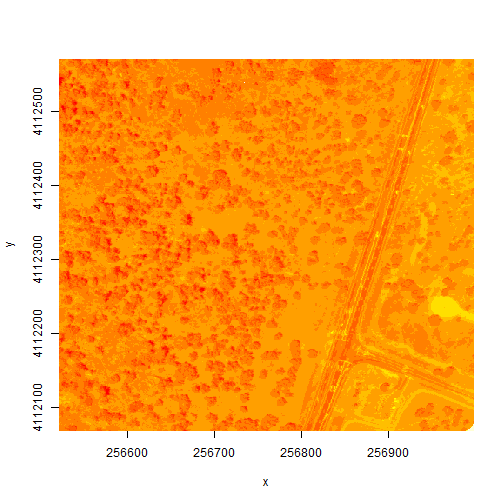
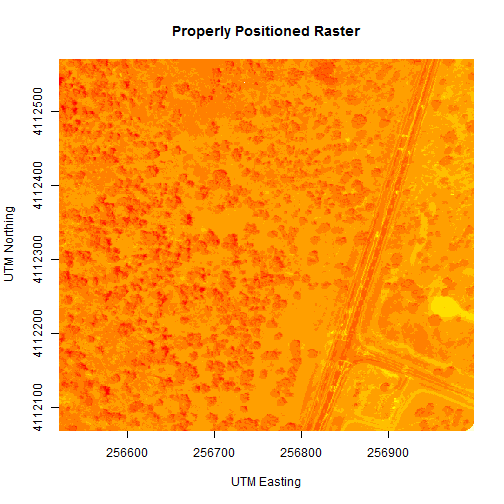
one last set of fixes

Changed region(s): [[0.3274, 0.0298, 0.7143, 0.0893], [0.4464, 0.9226, 0.5952, 0.9821], [0.0, 0.3869, 0.0298, 0.5655]]

diff --git a/_posts/HYPERSPECTRAL/2015-06-08-Work-With-Hyperspectral-Data-In-R.md b/_posts/HYPERSPECTRAL/2015-06-08-Work-With-Hyperspectral-Data-In-R.md
@@ -107,24 +107,6 @@ version 2.10 of `rhdf5` installed. Use: `packageVersion("rhdf5")` to check the
 package version. If you need to update `rhdf5`, use the following code:
 
 
-    #use the code below to install the rhdf5 library if it's not already installed.
-    #source("http://bioconductor.org/biocLite.R")
-    #biocLite("rhdf5")
-
-<i class="fa fa-star"></i> **Data Tip:** To update all packages installed in `R`, use `update.packages()`.
-{: .notice}
-
-##1. Read HDF5 data into R
-We will use the `raster` and `rhdf5` packages to read in the HDF5 file that 
-contains hyperspectral data for the <a href="http://neoninc.org/science-design/field-sites/san-joaquin" target="_blank">NEON San Joaquin field site</a>. Let's start by calling 
-the needed libraries and reading in our NEON HDF5 file.  
-
-
-    #r Load `raster` and `rhdf5` packages and read NIS data into R
-    library(raster)
-    library(rhdf5)
-    library(rgdal)
-
     ## rgdal: version: 0.9-3, (SVN revision 530)
     ##  Geospatial Data Abstraction Library extensions to R successfully loaded
     ##  Loaded GDAL runtime: GDAL 1.11.2, released 2015/02/10
@@ -133,6 +115,15 @@ the needed libraries and reading in our NEON HDF5 file.
     ##  Loaded PROJ.4 runtime: Rel. 4.9.1, 04 March 2015, [PJ_VERSION: 491]
     ##  Path to PROJ.4 shared files: C:/Users/lwasser/Documents/R/win-library/3.2/rgdal/proj
     ##  Linking to sp version: 1.1-1
+
+<i class="fa fa-star"></i> **Data Tip:** To update all packages installed in `R`, use `update.packages()`.
+{: .notice}
+
+##1. Read HDF5 data into R
+We will use the `raster` and `rhdf5` libraries to read in the HDF5 file that 
+contains hyperspectral data for the <a href="http://neoninc.org/science-design/field-sites/san-joaquin" target="_blank">NEON San Joaquin field site</a>. Let's start by calling 
+the needed libraries and reading in our NEON HDF5 file.  
+
 
     #be sure to set the working directory to the location where you saved your
     # the SJER_120123_chip.h5 file
@@ -310,7 +301,6 @@ band 34 data. Plotting spatial data as a visual "data check" is a good idea to
 make sure processing is being performed correctly and all is well with the image. 
 
     
-
     
 
     # look at the metadata for the reflectance dataset
@@ -521,7 +511,10 @@ Next we define the extents of our raster. The extents will be used to calculate 
     ## names       : layer 
     ## values      : 116, 15677  (min, max)
 
-    image(log(b34r))
+    image(log(b34r), 
+          xlab = "UTM Easting", 
+          ylab = "UTM Northing",
+          main= "Properly Positioned Raster")
 
 ![ ]({{ site.baseurl }}/images/rfigs/2015-06-08-Work-With-Hyperspectral-Data-In-R/define-extent-1.png) 
 
